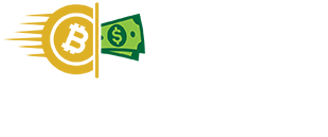
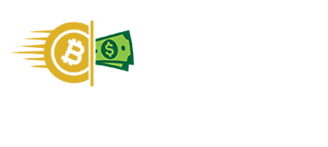
asd

Changed region(s): [[0.0, 0.0, 0.4573, 0.5839]]

diff --git a/mobile.html b/mobile.html
@@ -779,12 +779,12 @@
 </div>
 
 <div class="footer">
-    <a href="#" class="text-center">
+    <a href="#" class="text-left">
         <amp-img
                 class="footer-lgo gallery-thumb i-amphtml-element i-amphtml-layout-responsive i-amphtml-layout-size-defined"
                 on="tap:lightbox1" role="button" tabindex="0" layout="responsive"
                 src="public/images/CryptoRobot-loog1.png"
-                width="170" height="70">
+                width="120" height="70">
 
         </amp-img>
     </a>

diff --git a/public/css/custom.css b/public/css/custom.css
@@ -1027,16 +1027,15 @@ section#faq .button-register {
     border: 1px solid #898989 !important;
 }
 
-.footer a.text-center {
+.footer a.text-left {
     display: block;
     float: none !important;
     padding: 9px 8px;
 }
 
-.footer a.text-center amp-img {
+.footer a.text-left amp-img {
     float: none;
     text-align: center;
-    margin: 0px auto;
 }
 
 .footer-socials .email_support {
